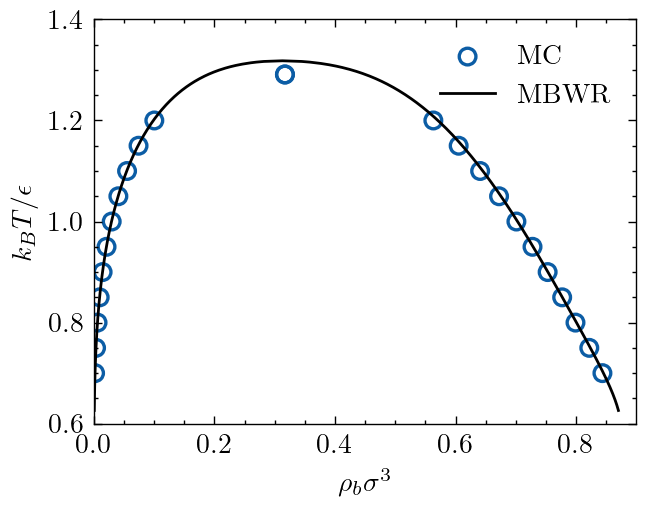
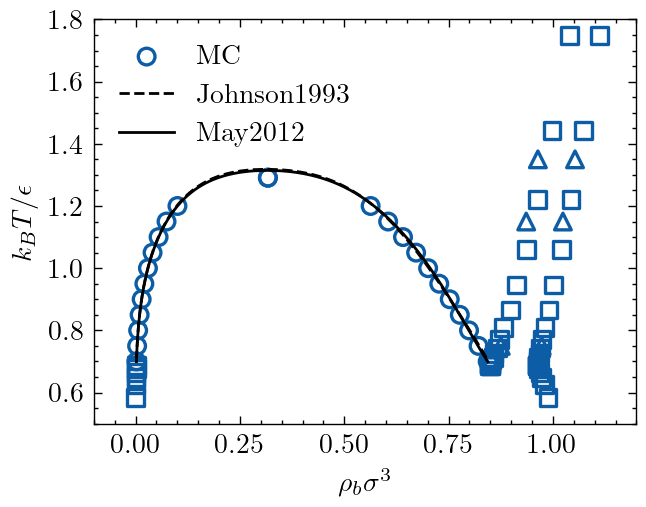
eos.py: Adding new eos

diff --git a/src/eos.py b/src/eos.py
@@ -7,12 +7,24 @@ def BHdiameter(kT,sigma=1.0,epsilon=1.0):
     kTstar = kT/epsilon
     return sigma*(1+0.2977*kTstar)/(1+0.33163*kTstar+1.0477e-3*kTstar**2)
 
-xlj = np.array([0.862308,2.976218,-8.402230,0.105413,-0.856458,1.582759,0.763942,1.753173,2.798e3,-4.839e-2,0.996326,-3.698e1,2.084e1,8.305e1,-9.574e2,-1.478e2,6.398e1,1.604e1,6.806e1,-2.791e3,-6.245128,-8.117e3,1.489e1,-1.059e4,-1.131607e2,-8.867771e3,-3.986982e1,-4.689270e3,2.593535e2,-2.694523e3,-7.218487e2,1.721802e2])
+# Reference: Johnson, J. K., Zollweg, J. A., & Gubbins, K. E. (1993). The Lennard-Jones equation of state revisited. Molecular Physics, 78(3), 591–618. https://doi.org/10.1080/00268979300100411
+xljMBWR = np.array([0.862308,2.976218,-8.402230,0.105413,-0.856458,1.582759,0.763942,1.753173,2.798e3,-4.839e-2,0.996326,-3.698e1,2.084e1,8.305e1,-9.574e2,-1.478e2,6.398e1,1.604e1,6.806e1,-2.791e3,-6.245128,-8.117e3,1.489e1,-1.059e4,-1.131607e2,-8.867771e3,-3.986982e1,-4.689270e3,2.593535e2,-2.694523e3,-7.218487e2,1.721802e2])
 
-def acoef(kTstar):
+# Reference: May, H.-O., & Mausbach, P. (2012). Riemannian geometry study of vapor-liquid phase equilibria and supercritical behavior of the Lennard-Jones fluid. Physical Review E, 85(3), 031201. https://doi.org/10.1103/PhysRevE.85.031201
+xljMay12 = np.array([0.8623085097507421,2.976218765822098,-8.402230115796038,0.1054136629203555,-0.8564583828174598,1.44787318813706322,-0.310267527929454501,3.26700773856663408,4402.40210429518902,0.0165375389359225696,7.42150201869250559,-40.7967106914122298,16.4537825382141350,12.8389071227935610,-1407.06580259642897,-33.2251738947705988,17.8209627529619184,-331.646081795803070,331.495131943892488,-4399.44711295106300,-3.05878673562233238,-12849.6469455607240,9.96912508326940738,-16399.8349720621627,-256.926076715047884,-14588.020393359636,88.3082960748521799,-6417.29842088150144,121.307436784732417,-4461.88332740913756,-507.183302372831804,37.2385794546305178])
+
+def acoef(kTstar,model='NewMBWR'):
+    if model == 'MBWR':
+        xlj = xljMBWR
+    elif model == 'NewMBWR':
+        xlj = xljMay12
     return np.array([xlj[0]*kTstar+xlj[1]*np.sqrt(kTstar)+xlj[2]+xlj[3]/kTstar+xlj[4]/kTstar**2,xlj[5]*kTstar+xlj[6]+xlj[7]/kTstar+xlj[8]/kTstar**2,xlj[9]*kTstar+xlj[10]+xlj[11]/kTstar,xlj[12],xlj[13]/kTstar+xlj[14]/kTstar**2,xlj[15]/kTstar,xlj[16]/kTstar+xlj[17]/kTstar**2,xlj[18]/kTstar**2])
 
-def bcoef(kTstar):
+def bcoef(kTstar,model='NewMBWR'):
+    if model == 'MBWR':
+        xlj = xljMBWR
+    elif model == 'NewMBWR':
+        xlj = xljMay12
     return np.array([xlj[19]/kTstar**2+xlj[20]/kTstar**3,xlj[21]/kTstar**2+xlj[22]/kTstar**4,xlj[23]/kTstar**2+xlj[24]/kTstar**3,xlj[25]/kTstar**2+xlj[26]/kTstar**4,xlj[27]/kTstar**2+xlj[28]/kTstar**3,xlj[29]/kTstar**2+xlj[30]/kTstar**3+xlj[31]/kTstar**4])
 
 def Gfunc(rhostar):
@@ -69,16 +81,17 @@ def d3Gfuncdrhos(rhostar):
 
 ###############################################################
 class LJEOS():
-    def __init__(self,sigma=1.0,epsilon=1.0):
+    def __init__(self,sigma=1.0,epsilon=1.0,model='NewMBWR'):
         self.sigma = sigma
         self.epsilon = epsilon
+        self.model = model
         
     # the free enery density
     def f(self,rho,kT):
         kTstar = kT/self.epsilon
         rhostar = rho*self.sigma**3
-        a = acoef(kTstar)
-        b = bcoef(kTstar)
+        a = acoef(kTstar,self.model)
+        b = bcoef(kTstar,self.model)
         G = Gfunc(rhostar)
         fLJ = a[0]*rhostar + a[1]*rhostar**2/2+ a[2]*rhostar**3/3+a[3]*rhostar**4/4+a[4]*rhostar**5/5+a[5]*rhostar**6/6+a[6]*rhostar**7/7 + a[7]*rhostar**8/8
         fLJ += b[0]*G[0]+b[1]*G[1]+b[2]*G[2]+b[3]*G[3]+b[4]*G[4]+b[5]*G[5]
@@ -88,8 +101,8 @@ class LJEOS():
     def mu(self,rho,kT):
         kTstar = kT/self.epsilon
         rhostar = rho*self.sigma**3
-        a = acoef(kTstar)
-        b = bcoef(kTstar)
+        a = acoef(kTstar,self.model)
+        b = bcoef(kTstar,self.model)
         G = Gfunc(rhostar)
         dGdrhos = dGfuncdrhos(rhostar)
         fLJ = a[0]*rhostar + a[1]*rhostar**2/2+ a[2]*rhostar**3/3+a[3]*rhostar**4/4+a[4]*rhostar**5/5+a[5]*rhostar**6/6+a[6]*rhostar**7/7 + a[7]*rhostar**8/8
@@ -106,8 +119,8 @@ class LJEOS():
     def dpdrho(self,rho,kT):
         kTstar = kT/self.epsilon
         rhostar = rho*self.sigma**3
-        a = acoef(kTstar)
-        b = bcoef(kTstar)
+        a = acoef(kTstar,self.model)
+        b = bcoef(kTstar,self.model)
         dGdrhos = dGfuncdrhos(rhostar)
         d2Gdrhos = d2Gfuncdrhos(rhostar)
         dfLJdrhostar = a[0] + a[1]*rhostar+ a[2]*rhostar**2+a[3]*rhostar**3+a[4]*rhostar**4+a[5]*rhostar**5+a[6]*rhostar**6 + a[7]*rhostar**7
@@ -120,8 +133,8 @@ class LJEOS():
     def d2pdrho2(self,rho,kT):
         kTstar = kT/self.epsilon
         rhostar = rho*self.sigma**3
-        a = acoef(kTstar)
-        b = bcoef(kTstar)
+        a = acoef(kTstar,self.model)
+        b = bcoef(kTstar,self.model)
         dGdrhos = dGfuncdrhos(rhostar)
         d2Gdrhos = d2Gfuncdrhos(rhostar)
         d3Gdrhos = d3Gfuncdrhos(rhostar)

diff --git a/examples/lj_phasediagram.py b/examples/lj_phasediagram.py
@@ -7,7 +7,7 @@ from eos import LJEOS
 # Github: @elvissoares
 # Date: 2022-10-06
 
-eos = LJEOS(sigma=1.0,epsilon=1.0)
+eos = LJEOS(sigma=1.0,epsilon=1.0,model='MBWR')
 
 # Objective function to critical point
 def objective_cr(x):
@@ -27,7 +27,7 @@ def vle():
     x = [rhoc-0.1,rhoc+0.1]
     rhol = rhoc
     kT = kTc
-    while rhol < 0.87:
+    while kT > 0.7:
         kT = kT - 0.001*kTc
         sol = optimize.root(objective, x, args=(kT),method='lm')
         [rhov,rhol] = sol.x
@@ -37,31 +37,71 @@ def vle():
         rholarray=np.append(rholarray,rhol)
     return [rhoc,kTc,np.hstack((rhovarray[::-1],rholarray)),np.hstack((kTarray[::-1],kTarray))]
 
+[rhocMBWR,kTcMBWR,rhoMBWR,kTMBWR] = vle()
+pMBWR = np.array([eos.p(rhoMBWR[i],kTMBWR[i]) + kTMBWR[i]*rhoMBWR[i] for i in range(rhoMBWR[rhoMBWR<rhocMBWR].size)])
+
+eos = LJEOS(sigma=1.0,epsilon=1.0,model='NewMBWR')
+
+# Objective function to critical point
+def objective_cr(x):
+    [rho,kT] = x
+    return [kT+eos.dpdrho(rho,kT),eos.d2pdrho2(rho,kT)]
+# Objective function to vapor-liquid equilibria
+def objective(x,kT):
+    [rhov,rhol] = x
+    return [kT*np.log(rhol)+eos.mu(rhol,kT)-kT*np.log(rhov)-eos.mu(rhov,kT),kT*rhol+eos.p(rhol,kT)-kT*rhov-eos.p(rhov,kT)]
+# Vapor-liquid equilibrium
+def vle():
+    solcr = optimize.root(objective_cr,[0.3,1.25],method='lm')
+    [rhoc,kTc] = solcr.x
+    kTarray = np.array([kTc])
+    rhovarray = np.array([rhoc])
+    rholarray = np.array([rhoc])
+    x = [rhoc-0.1,rhoc+0.1]
+    rhol = rhoc
+    kT = kTc
+    while kT > 0.7:
+        kT = kT - 0.001*kTc
+        sol = optimize.root(objective, x, args=(kT),method='lm')
+        [rhov,rhol] = sol.x
+        x = sol.x
+        kTarray=np.append(kTarray,kT)
+        rhovarray=np.append(rhovarray,rhov)
+        rholarray=np.append(rholarray,rhol)
+    return [rhoc,kTc,np.hstack((rhovarray[::-1],rholarray)),np.hstack((kTarray[::-1],kTarray))]
 
 [rhoc,kTc,rho,kT] = vle()
+plj = np.array([eos.p(rho[i],kT[i]) + kT[i]*rho[i] for i in range(rho[rho<rhoc].size)])
 
 import matplotlib.pyplot as plt
 import pandas as pd
-# plt.style.use(['science'])
+plt.style.use(['science'])
 
 df = pd.read_excel('../MCdata/MCdata-lennardjones-phasediagram.xls',sheet_name='NIST') 
 plt.scatter(df['rho1'],df['T'],marker='o',edgecolors='C0',facecolors='none',linewidth=1.2,label='MC')
 plt.scatter(df['rho2'],df['T'],marker='o',edgecolors='C0',facecolors='none',linewidth=1.2)
-
-plt.plot(rho,kT,linestyle='-',color='k',label='MBWR')
+df = pd.read_excel('../MCdata/MCdata-lennardjones-phasediagram.xls',sheet_name='Agrawal1995') 
+plt.scatter(df['rho1'],df['T'],marker='s',edgecolors='C0',facecolors='none',linewidth=1.2)
+plt.scatter(df['rho2'],df['T'],marker='s',edgecolors='C0',facecolors='none',linewidth=1.2)
+df = pd.read_excel('../MCdata/MCdata-lennardjones-phasediagram.xls',sheet_name='HansenVerlet1969') 
+plt.scatter(df['rho1'],df['T'],marker='^',edgecolors='C0',facecolors='none',linewidth=1.2)
+plt.scatter(df['rho2'],df['T'],marker='^',edgecolors='C0',facecolors='none',linewidth=1.2)
+plt.plot(rhoMBWR,kTMBWR,linestyle='--',color='k',label='Johnson1993')
+plt.plot(rho,kT,linestyle='-',color='k',label='May2012')
 plt.ylabel(r'$k_B T /\epsilon$')
 plt.xlabel(r'$\rho_b \sigma^3$')
-plt.xlim(0.0,0.9)
-plt.ylim(0.6,1.4)
-plt.legend(loc='upper right',ncol=1)
+plt.xlim(-0.1,1.2)
+plt.ylim(0.5,1.8)
+plt.legend(loc='upper left',ncol=1)
 
 plt.savefig('../figures/phasediagram_lennardjones.png', dpi=200)
 plt.show()
 plt.close()
 
-plj = np.array([eos.p(rho[i],kT[i]) + kT[i]*rho[i] for i in range(rho[rho<rhoc].size)])
+df = pd.read_excel('../MCdata/MCdata-lennardjones-phasediagram.xls',sheet_name='NIST') 
 plt.scatter(1.0/df['T'],df['P'],marker='o',edgecolors='C0',facecolors='none',linewidth=1.2,label='MC')
-plt.plot(1.0/kT[rho<rhoc],plj,linestyle='-',color='k',label='MBWR')
+plt.plot(1.0/kTMBWR[rhoMBWR<rhocMBWR],pMBWR,linestyle='--',color='k',label='Johnson1993')
+plt.plot(1.0/kT[rho<rhoc],plj,linestyle='-',color='k',label='May2012')
 plt.yscale('log')
 plt.xlabel(r'$\epsilon/k_B T$')
 plt.ylabel(r'$p \sigma^3/\epsilon$')

diff --git a/src/pydft3d.py b/src/pydft3d.py
@@ -116,6 +116,8 @@ class DFT3D():
             self.delta = 0.1*self.d
         elif self.gridsize == 'grained':
             self.delta = 0.2*self.d
+        elif self.gridsize == 'mostgrained':
+            self.delta = 0.5*self.d
         self.x = np.arange(-0.5*self.L[0],0.5*self.L[0],self.delta) + 0.5*self.delta
         self.y = np.arange(-0.5*self.L[1],0.5*self.L[1],self.delta) + 0.5*self.delta
         self.z = np.arange(-0.5*self.L[2],0.5*self.L[2],self.delta) + 0.5*self.delta
@@ -201,8 +203,8 @@ class DFT3D():
     def Set_InitialCondition(self):
         self.rho[:] = self.rhob
         mask = self.Vext>=16128
-        self.rho[mask] = 1.e-16
         self.Vext[mask] = 0.0
+        self.rho[mask] = 1.e-16
         self.Update_System()
 
     def Update_System(self):
@@ -348,7 +350,7 @@ class DFT3D():
         self.muexc = self.muhs + self.muatt
         self.mu = self.muid + self.muexc
 
-    def Calculate_Equilibrium(self,alpha0=0.62,dt=0.069,rtol=1e-3,atol=1e-5,logoutput=False):
+    def Calculate_Equilibrium(self,alpha0=0.62,dt=0.069,rtol=1e-3,atol=1e-4,logoutput=False):
 
         print('---- Obtaining the thermodynamic equilibrium ----')
 
